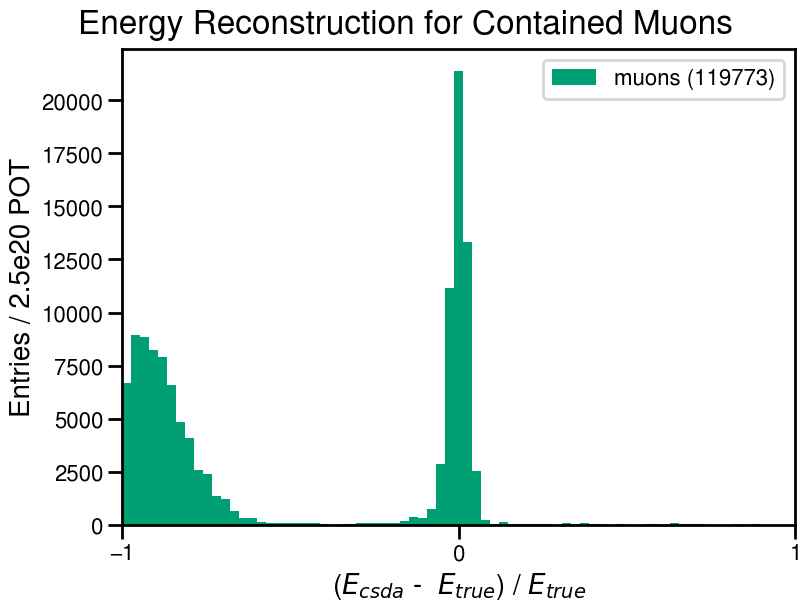
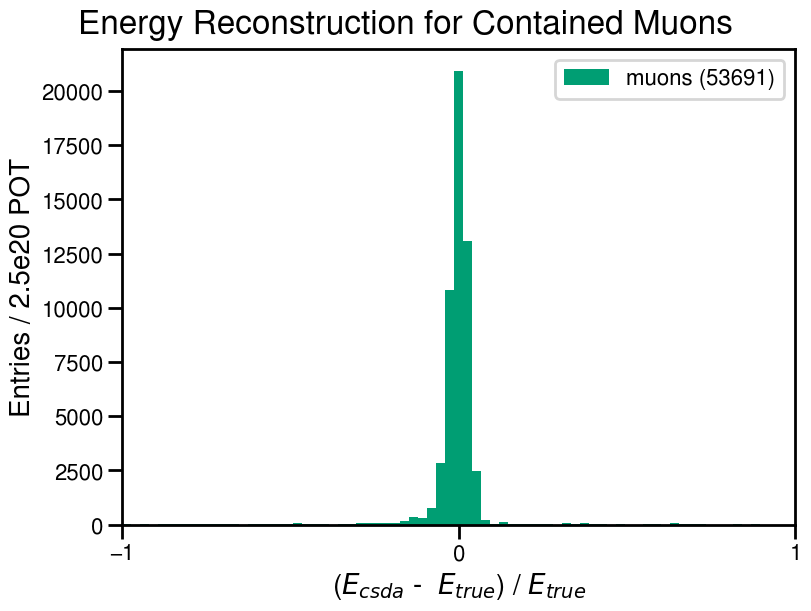
Updated muon bias plots to only contain neutrinogenic muons

diff --git a/include/analysis.h b/include/analysis.h
@@ -70,13 +70,13 @@ namespace ana
     PVAR_TTP(kPrimaryPID_Cosmic,vars::primary_pid,cuts::cosmic,cuts::no_cut,cuts::no_cut);
 
     // Variables for 2D "true vs. reco" style plots.
-    PVARDLP_TRUE(kCSDATruth_muon,vars::ke_init,cuts::no_cut,cuts::matched_muon);
-    PVAR_TTP(kCSDA_muon,vars::csda_ke,cuts::no_cut,cuts::muon,cuts::no_cut);
-    PVAR_TTP(kCSDA_muon2muon,vars::csda_ke_muon,cuts::no_cut,cuts::muon,cuts::no_cut);
+    PVARDLP_TRUE(kCSDATruth_muon,vars::ke_init,cuts::neutrino,cuts::matched_muon);
+    PVAR_TTP(kCSDA_muon,vars::csda_ke,cuts::neutrino,cuts::muon,cuts::no_cut);
+    PVAR_TTP(kCSDA_muon2muon,vars::csda_ke_muon,cuts::neutrino,cuts::muon,cuts::no_cut);
 
-    PVARDLP_BIAS(kCSDA_muon_bias,vars::ke_init,vars::csda_ke_muon,cuts::muon,cuts::no_cut);
-    PVARDLP_BIAS(kCSDA_noncc_muon_bias,vars::ke_init,vars::csda_ke_muon,cuts::contained_tpc_muon,cuts::no_cut);
-    PVARDLP_BIAS(kCSDA_wellreco_muon_bias,vars::ke_init,vars::csda_ke_muon,cuts::wellreco_muon,cuts::no_cut);
+    PVARDLP_BIAS(kCSDA_muon_bias,vars::ke_init,vars::csda_ke_muon,cuts::neutrino,cuts::muon,cuts::no_cut);
+    PVARDLP_BIAS(kCSDA_noncc_muon_bias,vars::ke_init,vars::csda_ke_muon,cuts::neutrino,cuts::contained_tpc_muon,cuts::no_cut);
+    PVARDLP_BIAS(kCSDA_wellreco_muon_bias,vars::ke_init,vars::csda_ke_muon,cuts::neutrino,cuts::wellreco_muon,cuts::no_cut);
 
     // Variables for 2D bias plots.
     VARDLP_BIAS(kEnergy_1mu1p_signal_bias,vars::visible_energy,vars::visible_energy,cuts::signal_1mu1p,cuts::all_1mu1p_cut);
